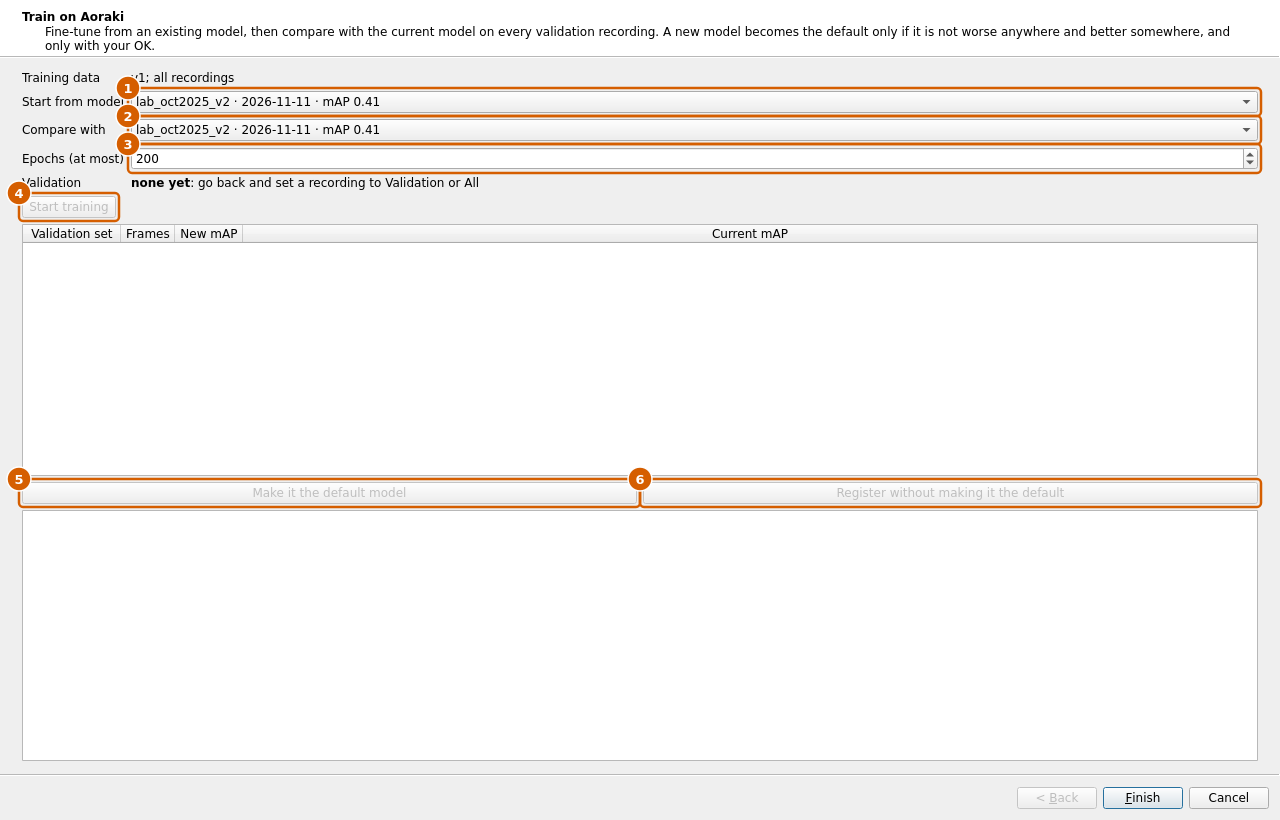
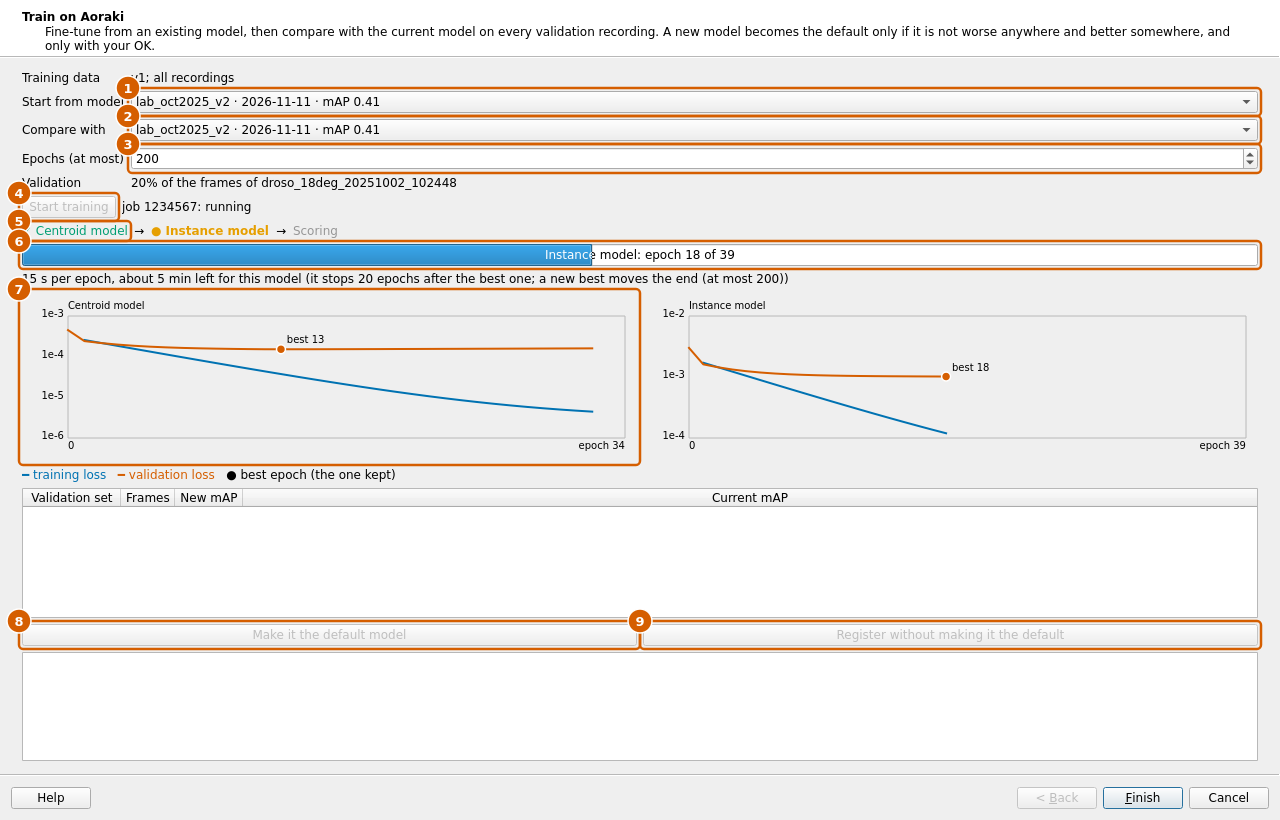
docs: user manual with numbered screenshots and a PDF build
docs/manual/user_manual.md walks through every page of the main wizard,
the arena editor, Rig Relay and the training-data wizard. Each page has a
screenshot with numbered markers on the controls and a list of what each
number does; the command line is summarised at the end.

scripts/manual_screenshots.py opens the real windows offscreen, fills them
with example content without recording, sending or saving anything, and
blanks home folders and user names. scripts/build_manual_pdf.py prints the
Markdown to one A4 PDF with Qt, one section per page.

A chapter on annotating Drosophila triads in SLEAP covers the 13 points,
correcting model guesses, the decapitated female's hidden head points, the
frame rules the wizard checks, and saving. Its pictures come from SLEAP 1.6
itself (scripts/manual_sleap_screenshots.py, run with SLEAP's python on a
copy of a label set version).

tests/test_manual.py checks headings, links and pictures, that Help on
every wizard page finds its section, and that every button, checkbox and
group box of both wizards is named in the manual, so a GUI change that
skips the manual fails the tests.

diff --git a/tests/test_manual.py b/tests/test_manual.py
@@ -1,0 +1,155 @@
+"""User manual: structure, links, and drift against the live wizards.
+
+The drift tests build both wizards and fail when a page has no section in the
+manual, or a button, checkbox or group box the manual never names. A GUI
+change that skips the manual turns the tests red instead of leaving users
+with stale instructions.
+"""
+
+from __future__ import annotations
+
+import os
+import re
+
+import pytest
+
+from rigconductor.manual import (
+    MANUAL_DIR,
+    MANUAL_PATH,
+    anchor_targets,
+    image_targets,
+    load_manual,
+    parse_sections,
+    slugify,
+)
+
+os.environ.setdefault("QT_QPA_PLATFORM", "offscreen")
+QtWidgets = pytest.importorskip("PyQt6.QtWidgets")
+
+_app = QtWidgets.QApplication.instance() or QtWidgets.QApplication([])
+
+# Labels built at run time from data, not words a manual can name.
+GENERATED = re.compile(r"^A\d\d$")  # arena tiles on the Animals page
+
+
+@pytest.fixture(scope="module")
+def manual() -> str:
+    return load_manual()
+
+
+def normalise(label: str) -> str:
+    """Compare labels the way a reader sees them."""
+    text = label.replace("&", "").replace("…", "").replace("...", "").strip()
+    return re.sub(r"\s+", " ", text).lower()
+
+
+@pytest.fixture
+def wizards(tmp_path, monkeypatch):
+    from rigconductor import sleapenv
+    from rigconductor.config import ConductorConfig
+    from rigconductor.gui import labelling_wizard as lw
+    from rigconductor.gui.labelling_wizard import LabellingWizard
+    from rigconductor.gui.wizard import Wizard
+    from rigconductor.labels import store
+
+    # never the real label sets (a running training would be polled on Aoraki)
+    monkeypatch.setattr(store, "LABEL_SETS_DIR", str(tmp_path / "sets"))
+    monkeypatch.setattr(sleapenv, "find", lambda run=None: None)
+    monkeypatch.setattr(lw, "removable_disks", lambda: [])
+    (tmp_path / "DATA").mkdir()
+    cfg = ConductorConfig(
+        data_root=tmp_path / "DATA",
+        sessions_dir=tmp_path / "sessions",
+        profiles={"fake": {"default_duration_s": 10}},
+    )
+    return Wizard(cfg), LabellingWizard(cfg)
+
+
+def pages(wizard):
+    return [wizard.page(pid) for pid in wizard.pageIds()]
+
+
+# ── structure ─────────────────────────────────────────────────────
+def test_manual_exists_with_a_title(manual):
+    assert MANUAL_PATH.is_file()
+    assert parse_sections(manual)[0].level == 1
+
+
+def test_internal_links_resolve(manual):
+    slugs = {s.slug for s in parse_sections(manual)}
+    broken = [t for t in anchor_targets(manual) if t not in slugs]
+    assert not broken, f"links to missing headings: {broken}"
+
+
+def test_images_exist(manual):
+    missing = [t for t in image_targets(manual) if not (MANUAL_DIR / t).is_file()]
+    assert not missing, f"run scripts/manual_screenshots.py; missing: {missing}"
+
+
+def test_slugs():
+    assert slugify("4 · Cut & check") == "4-cut-check"
+    assert slugify("Pick new frames: Where to label") == "pick-new-frames-where-to-label"
+
+
+# ── drift ─────────────────────────────────────────────────────────
+def test_every_wizard_page_has_its_section(wizards, manual):
+    from rigconductor.gui.help_window import page_section
+
+    slugs = {s.slug for s in parse_sections(manual)}
+    missing = [
+        page_section(p)
+        for w in wizards
+        for p in pages(w)
+        if slugify(page_section(p) or "") not in slugs
+    ]
+    assert not missing, f"Help on these pages finds no heading: {missing}"
+
+
+def test_every_control_is_documented(wizards, manual):
+    from PyQt6.QtWidgets import QAbstractButton, QGroupBox
+
+    text = normalise(manual)
+    undocumented = {}
+    for w in wizards:
+        for p in pages(w):
+            found = {b.text() for b in p.findChildren(QAbstractButton)}
+            found |= {g.title() for g in p.findChildren(QGroupBox)}
+            labels = {t for t in found if t.strip() and not GENERATED.match(t)}
+            missing = sorted(t for t in labels if normalise(t) not in text)
+            if missing:
+                undocumented[p.title()] = missing
+    assert not undocumented, f"not named in docs/manual/user_manual.md: {undocumented}"
+
+
+def test_help_button_opens_the_manual_at_the_page(wizards):
+    from PyQt6.QtWidgets import QWizard
+
+    from rigconductor.gui import help_window
+
+    _main, training = wizards
+    training.show()
+    training.setStartId(training.pageIds()[-1])  # Train on Aoraki
+    training.restart()
+    training.button(QWizard.WizardButton.HelpButton).click()
+    for _ in range(5):
+        _app.processEvents()
+    win = help_window._window
+    assert win is not None and win.isVisible()
+    assert win.contents.currentItem().text(0) == "Train on Aoraki"
+    assert win.browser.verticalScrollBar().value() > 0
+    win.search.setText("thorax")
+    assert win.match_lbl.text() == ""
+    win.search.setText("zzz-no-such-text")
+    assert win.match_lbl.text() == "No matches"
+    win.close()
+    training.close()
+
+
+def test_f1_is_the_help_key(wizards):
+    from PyQt6.QtGui import QKeySequence
+    from PyQt6.QtWidgets import QWizard
+
+    for w in wizards:
+        btn = w.button(QWizard.WizardButton.HelpButton)
+        assert btn.text() == "Help"
+        assert btn.shortcut() == QKeySequence(QKeySequence.StandardKey.HelpContents)

diff --git a/scripts/manual_screenshots.py b/scripts/manual_screenshots.py
@@ -52,6 +52,29 @@ BADGE_PX = 24
 SETTLE_S = 60  # longest wait for a background task (SLEAP inspect, summaries)
 EXAMPLE_GROUP = "G01"
 EXAMPLE_LABELLER = "JC"
+EXAMPLE_JOB = "1234567"
+
+
+def example_training() -> dict:
+    """A made-up run: centroid stopped early at epoch 33, instance model at epoch 18."""
+    import math
+
+    def curve(n: int, best: int, start: float) -> list[tuple]:
+        rows = [(0, None, start * 1.5, None)]
+        for e in range(1, n):
+            train = start * math.exp(-e / 6) + start * 0.01
+            val = start * (0.5 + 0.4 * math.exp(-e / 3) + 0.02 * abs(e - best) / best)
+            rows.append((e, train, val, 14.5 + (e % 3) * 0.3))
+        return rows
+
+    return {
+        "state": "RUNNING",
+        "trained": 1,
+        "curves": {"centroid": curve(33, 12, 3e-4), "centered_instance": curve(19, 30, 2e-3)},
+        "patience": {"centroid": 20, "centered_instance": 20},
+    }
+
+
 WINDOW_W, WINDOW_H = 1280, 820  # wide enough for the Analyse toolbar
 
 
@@ -575,7 +598,11 @@ def training_wizard(app, cfg, a, out, legend, secrets):
     shoot(app, wiz, "train_7_data", marks, out, legend, secrets)
 
     wiz.train_version = da.version.currentData() or 1
+    lw.TrainPage.resume = lambda self: None  # never poll a real run on Aoraki
     tr = show_page(app, wiz, lw.PAGE_TRAIN)
+    tr.start_btn.setEnabled(False)
+    tr.state.setText(f"job {EXAMPLE_JOB}: running")
+    tr.training.show_status(example_training(), tr.epochs.value())
     shoot(
         app,
         wiz,
@@ -585,6 +612,9 @@ def training_wizard(app, cfg, a, out, legend, secrets):
             ("Compare with", tr.compare),
             ("Epochs (at most)", tr.epochs),
             ("Start training", tr.start_btn),
+            ("Steps", tr.training.steps[0]),
+            ("Epoch bar", tr.training.bar),
+            ("Loss curves", tr.training.plots["centroid"]),
             ("Make it the default model", tr.promote_btn),
             ("Register without making it the default", tr.keep_btn),
         ],
@@ -615,11 +645,14 @@ def main(argv: list[str] | None = None) -> int:
     remote = cluster_user(cfg.cluster.ssh_host)
     if remote:
         secrets.append((remote, "user"))
-    legend: dict[str, list[str]] = {}
+    legend_file = out / "markers.json"  # shared with manual_sleap_screenshots.py
+    legend: dict[str, list[str]] = (
+        json.loads(legend_file.read_text(encoding="utf-8")) if legend_file.is_file() else {}
+    )
     main_wizard(app, cfg, a, out, legend, secrets)
     extra_windows(app, cfg, a, out, legend, secrets)
     training_wizard(app, cfg, a, out, legend, secrets)
-    (out / "markers.json").write_text(json.dumps(legend, indent=1), encoding="utf-8")
+    legend_file.write_text(json.dumps(legend, indent=1), encoding="utf-8")
     return 0
 
 

diff --git a/docs/manual/user_manual.md b/docs/manual/user_manual.md
@@ -22,6 +22,10 @@ pictures.
 You can also open the training-data wizard from the main wizard with the
 **Training data…** button at the bottom.
 
+**Help** (bottom left on every page, or **F1**) opens this manual in its own
+window, at the section about the page you are on. It has a contents list and a
+search box (**Ctrl+F**); you can keep it open beside the wizard.
+
 A recording day goes through six pages: **Setup → Animals → Record → Cut &
 check → Analyse → Deliver**. Press **Next** to go on. Every step is saved, so
 you can close the program and pick up the same recording later (Setup page,
@@ -81,6 +85,7 @@ you can close the program and pick up the same recording later (Setup page,
 4. **Search**: type a vial code, genotype or owner to find a vial.
 5. **Vial shelf**: all active vials from DrosoDB, grouped by genotype. Drag a
    vial onto an arena slot. Ctrl-click or Shift-click to drag several at once.
+   **show Sickbay** also lists the vials in the Sickbay (hidden otherwise).
 6. **Arena card**: one card per arena. The tick says the arena is used. Drop a
    vial on a male slot; one vial fills both male slots. **✕** empties a slot,
    a double-click lets you type a code by hand, **age** is the age in days.
@@ -101,7 +106,7 @@ to go on while something required is missing and says what it is.
    counts the time.
 3. **Abort**: stops the recording early.
 4. **Live preview**: starts by itself, with the arenas and genotypes drawn on.
-5. **Show technical details**: also shows the commands sent to Motif and
+5. **Show technical details (commands sent to the cluster)**: also shows the commands sent to Motif and
    Aoraki in the log (for troubleshooting).
 
 **Next** becomes available when the recording has finished.
@@ -112,7 +117,7 @@ to go on while something required is missing and says what it is.
 
 1. **Cut into arenas / wells**: cuts the recording into one clip per arena and
    registers the trials in the ThermoKourt database. The bar shows the progress.
-2. **Then crop the full recording to the arenas**: afterwards the full video
+2. **Then crop the full recording to the arenas (saves disk space)**: afterwards the full video
    is replaced by a copy cropped to the arenas. This saves a lot of disk space.
    The cropped copy is checked frame by frame before the full video is deleted.
 3. **padding**: the margin kept around the arenas when cropping.
@@ -149,8 +154,8 @@ The saved circles also become the rig's layout for the next recording.
 2. **Refresh models**: fetches the newest model list from Aoraki.
 3. **Check model vs videos**: checks that the clips suit the model (colour,
    frame rate, size).
-4. **use anyway**: sends the clips even if that check failed. Only with Bart's
-   OK.
+4. **use anyway (Bart's OK)**: sends the clips even if that check failed.
+   Only with Bart's OK.
 5. **Rerun with this model**: analyses the recording again with the model
    chosen in 1. The earlier poses are kept in an archive folder; the scores are
    replaced.
@@ -180,7 +185,7 @@ GPU are used at once; the run is done when every tile is green.
 1. **Disk**: the USB disk to copy the results to. Choose *… a folder instead*
    to write to a folder.
 2. **Rescan**: looks again after you plugged a disk in.
-3. **blind export**: leaves out genotypes and vial codes, so whoever scores the
+3. **blind export (no genotypes / vials)**: leaves out genotypes and vial codes, so whoever scores the
    videos does not know the groups.
 4. **Clips**: which videos go along: none, the arena clips as recorded, clips
    with the tracked skeletons, with the scored events, or both.
@@ -337,10 +342,21 @@ image size, arenas and who labelled them.
    stops improving.
 4. **Start training**: sends the frames to Aoraki and starts training. You can
    close the wizard; it picks the run up again when reopened.
-5. **Make it the default model**: offered only when the new model is not worse
+5. **Steps**: Aoraki trains two models one after the other (*Centroid model*
+   finds the flies, *Instance model* places the points), then scores the new
+   and the current model. Green ✓ is done, orange ● is running.
+6. **Epoch bar**: epochs done for the model in training, and about how long
+   is left. Training stops 20 epochs after the best epoch, so the end moves
+   back each time the model gets better (never past *Epochs (at most)*). The
+   page checks Aoraki every minute.
+7. **Loss curves**: one per model. Blue is the training loss, orange the
+   validation loss, the dot the best epoch (the model that is kept). Both
+   should go down. If the blue line keeps falling while the orange one stays
+   flat, the model is learning the training frames by heart: label more frames.
+8. **Make it the default model**: offered only when the new model is not worse
    than the current one on any validation set and better on at least one. The
-   table shows both models' scores (mAP) per validation set.
-6. **Register without making it the default**: keeps the model in the list
+   table above shows both models' scores (mAP) per validation set.
+9. **Register without making it the default**: keeps the model in the list
    without using it for new recordings.
 
 ## Annotating Drosophila triads in SLEAP
